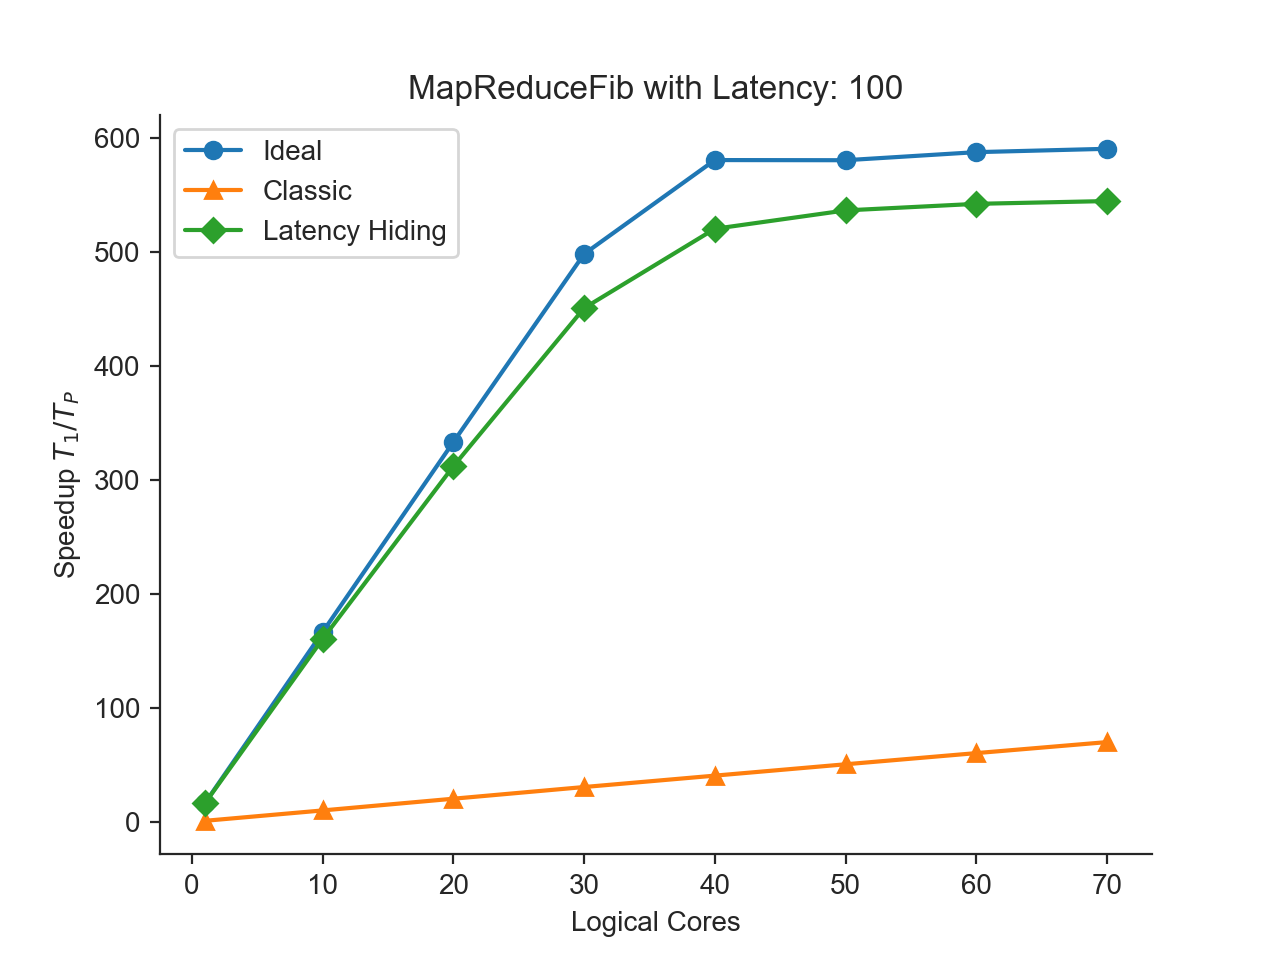
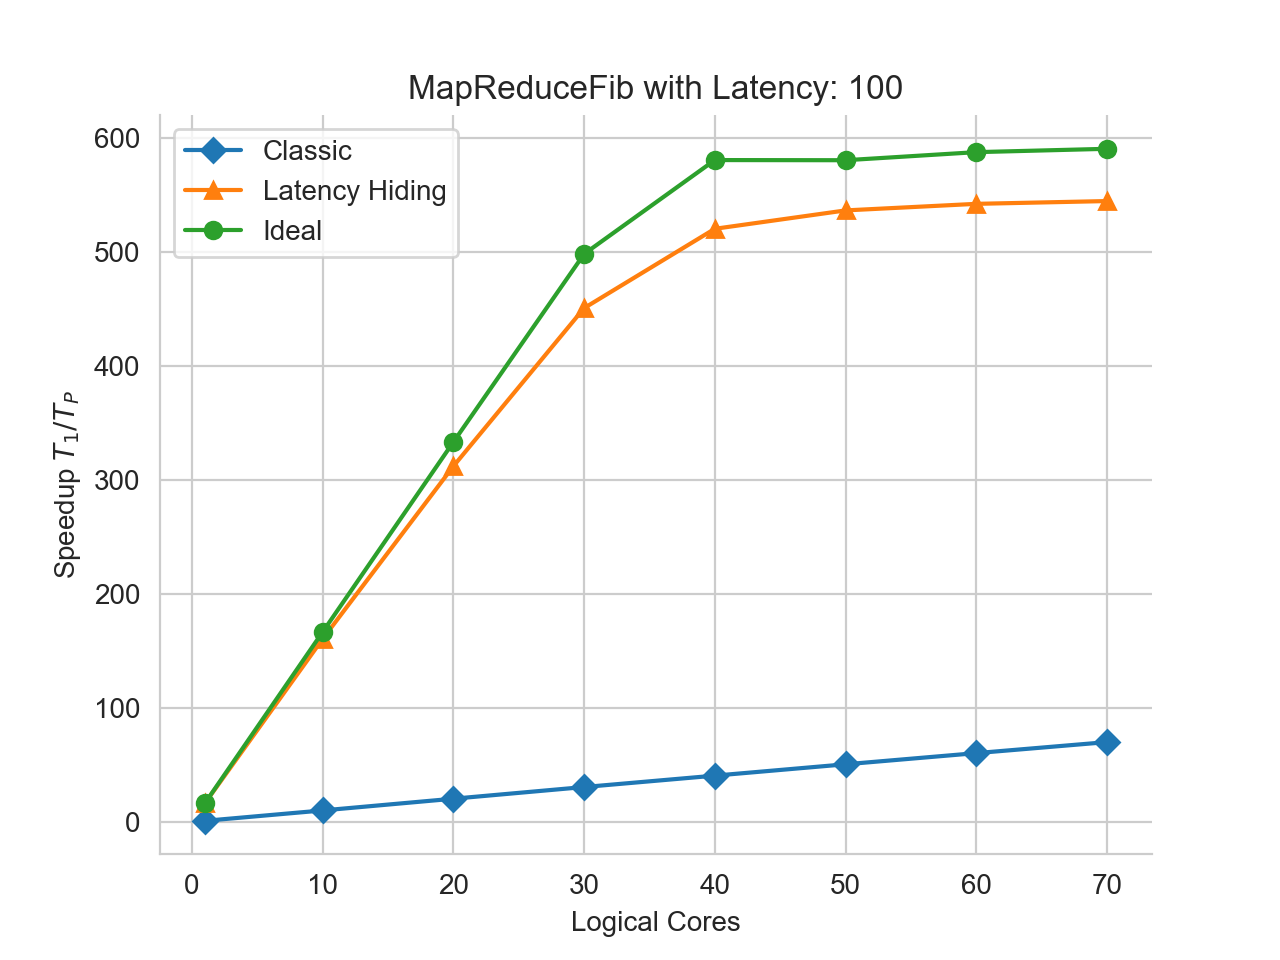
Small changes

diff --git a/benches/quicksort.rs b/benches/quicksort.rs
@@ -3,9 +3,9 @@ use benchmarks::{Parallel, ParallelLH, Serial, Work};
 use criterion::BatchSize::SmallInput;
 use criterion::{black_box, criterion_group, criterion_main, BenchmarkId, Criterion};
 
-const STACK_SIZE_MB: usize = 16; // set a large stack size to avoid overflow
+const STACK_SIZE_MB: usize = 24; // set a large stack size to avoid overflow
 const LATENCY_MS: [Option<u64>; 4] = [None, Some(1), Some(50), Some(100)];
-const LEN: [usize; 1] = [1_000_000];
+const LEN: [usize; 1] = [10_000_000];
 
 fn inputs() -> Vec<Vec<i32>> {
     LEN.map(|len| generate_random_sequence(len))
@@ -28,11 +28,8 @@ fn quicksort_bench(c: &mut Criterion) {
 
     let num_cores = {
         let step = if num_cpus::get() <= 10 { 2 } else { 10 };
-        let num_cores = [1]
-            .into_iter()
-            .chain((step..=num_cpus::get()).step_by(step));
-        let cores_2p = [2 * num_cores.clone().last().unwrap()];
-        num_cores.chain(cores_2p)
+        [1].into_iter()
+            .chain((step..=num_cpus::get()).step_by(step))
     };
 
     for input in all_inputs.iter_mut() {

diff --git a/benches/map_reduce_fib.rs b/benches/map_reduce_fib.rs
@@ -7,7 +7,7 @@ use std::iter::Iterator;
 // (fib n, serial_cutoff)
 type FibSettings = (u32, u32);
 
-const STACK_SIZE_MB: usize = 16; // set a large stack size to avoid overflow
+const STACK_SIZE_MB: usize = 24; // set a large stack size to avoid overflow
 const LATENCY_MS: [Option<u64>; 4] = [None, Some(1), Some(50), Some(100)];
 const LEN: [usize; 1] = [5000];
 const FIB_SETTINGS: [FibSettings; 2] = [(30, 25), (35, 15)];
@@ -57,11 +57,8 @@ fn map_reduce_fib_bench(c: &mut Criterion) {
 
     let num_cores = {
         let step = if num_cpus::get() <= 10 { 2 } else { 10 };
-        let num_cores = [1]
-            .into_iter()
-            .chain((step..=num_cpus::get()).step_by(step));
-        let cores_2p = [2 * num_cores.clone().last().unwrap()];
-        num_cores.chain(cores_2p)
+        [1].into_iter()
+            .chain((step..=num_cpus::get()).step_by(step))
     };
 
     for len in LEN {

diff --git a/plotting/map_reduce.py b/plotting/map_reduce.py
@@ -72,10 +72,10 @@ for latency in latencies:
     classic = speedups.loc[speedups['Scheduler'] == 'Classic', ['Cores', 'Speedup']].sort_values(by=['Cores'])
     lh = speedups.loc[speedups['Scheduler'] == 'Latency Hiding', ['Cores', 'Speedup']].sort_values(by=['Cores'])
 
-    with sns.axes_style(style="ticks"):
+    with sns.axes_style(style="whitegrid"):
+        plt.plot(classic['Cores'], classic['Speedup'], marker='D', label='Classic')
+        plt.plot(lh['Cores'], lh['Speedup'], marker='^', label='Latency Hiding')
         plt.plot(ideal['Cores'], ideal['Speedup'], marker='o', label='Ideal')
-        plt.plot(classic['Cores'], classic['Speedup'], marker='^', label='Classic')
-        plt.plot(lh['Cores'], lh['Speedup'], marker='D', label='Latency Hiding')
 
         plt.title(f'MapReduceFib with Latency: {latency}')
         plt.legend(loc='best')

diff --git a/plotting/overhead.py b/plotting/overhead.py
@@ -58,9 +58,9 @@ speedups['Speedup'] = serial_baseline / speedups['Wallclock']
 classic = speedups.loc[speedups['Scheduler'] == 'Classic', ['Cores', 'Speedup']].sort_values(by=['Cores'])
 lh = speedups.loc[speedups['Scheduler'] == 'Latency Hiding', ['Cores', 'Speedup']].sort_values(by=['Cores'])
 
-with sns.axes_style(style="ticks"):
-    plt.plot(classic['Cores'], classic['Speedup'], marker='^', label='Classic')
-    plt.plot(lh['Cores'], lh['Speedup'], marker='D', label='Latency Hiding')
+with sns.axes_style(style="whitegrid"):
+    plt.plot(classic['Cores'], classic['Speedup'], marker='D', label='Classic')
+    plt.plot(lh['Cores'], lh['Speedup'], marker='^', label='Latency Hiding')
 
     plt.title(f'Overhead')
     plt.legend(loc='best')
